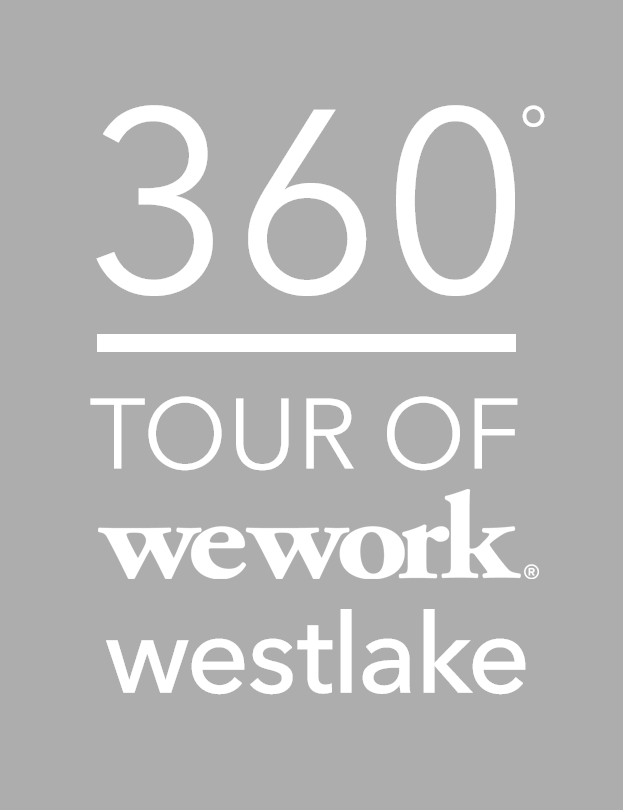
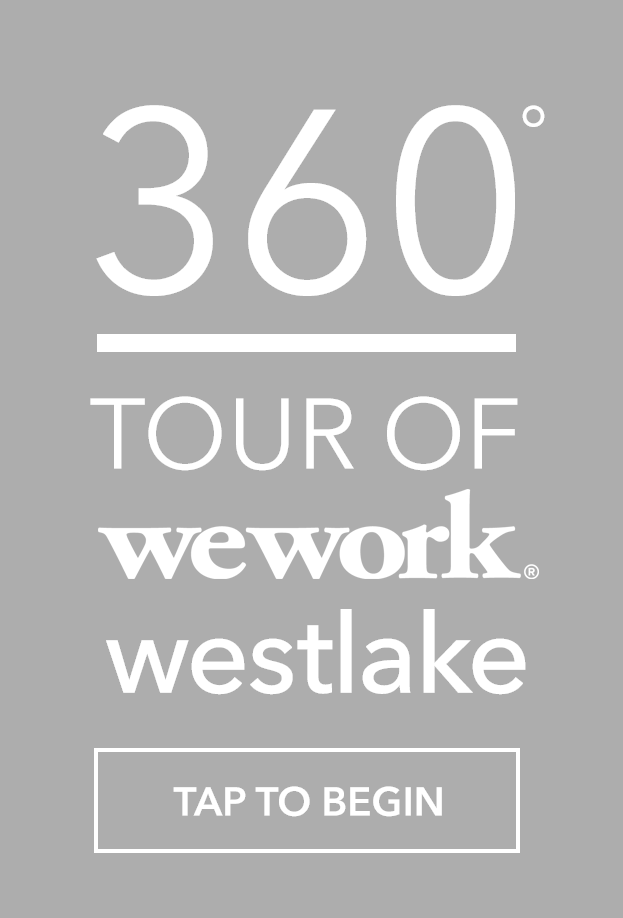
VIRO-456: Adjusted WeWorks Sample App from Feedback

Changed region(s): [[0.1525, 0.0926, 0.8539, 0.9568], [0.61, 0.0926, 0.8844, 0.216]]

diff --git a/js/360PhotoTour/MainScene.js b/js/360PhotoTour/MainScene.js
@@ -11,6 +11,7 @@
 
 import React, { Component } from 'react';
 var OfficeTourMainScene = require('./scenes/OfficeTourMcGrawScene');
+var LoadingSpinner = require('./custom_controls/LoadingSpinner');
 
 import {
   StyleSheet,
@@ -40,30 +41,13 @@ var OfficeTourSplashScene = React.createClass({
               <ViroLight type="omni" position={[0, 0, 0]} color="#ffffff"
                          direction={[0,0, -1.0]} attenuationStartDistance={40} attenuationEndDistance={50}
                          spotInnerAngle={0} spotOuterAngle={20} />
-              <ViroView visible={!this.state.showSceneItems} position={this.props.position} rotation={this.props.rotation} scale={this.props.scale}>
-                  <ViroSpinner position={[0, 0, -5]}
-                               spinnerType='dark'
-                               showLoadingText={true}/>
-                  <ViroText position={[-0.25, -1, -5]}
-                            fontFamily='HelveticaNeue-Medium'
-                            transformConstraint="billboard"
-                            fontSize={70}
-                            color="#000000"
-                            text="Loading ...."/>
-              </ViroView>
+              <LoadingSpinner visible={!this.state.showSceneItems} position={[0, 0, -5]}/>
 
-              <ViroView visible={this.state.showSceneItems} position={this.props.position} rotation={this.props.rotation} scale={this.props.scale}>
+              <ViroView visible={this.state.showSceneItems} position={this.props.position} rotation={this.props.rotation} >
                   <Viro360Photo source={require('./img/westlake_towers.jpg')} onLoadEnd={this._onLoadEnd}/>
                   <ViroAnimatedComponent animation="showTitle" runOnMount={false} loop={false} ref={MAINCARD_REF}>
-                        <ViroImage material="wework_title"  position={[0, 0, -5]} scale={[.1, .1, .1]} opacity={0.0} onTap={this._onTapTourSplashScreen}/>
+                        <ViroImage material="wework_title"  position={[0, 0, -5]} scale={[0.6, 1, .1]} opacity={0.0} onTap={this._onTapTourSplashScreen}/>
                   </ViroAnimatedComponent>
-                  <ViroText position={[-0.75, -1.60, -5]}
-                            fontFamily='HelveticaNeue-Medium'
-                            transformConstraint="billboard"
-                            spatialWidth={2}
-                            fontSize={60}
-                            color="#000000"
-                            text="Click To Start"/>
               </ViroView>
           </ViroScene>
       );
@@ -96,6 +80,6 @@ var styles = StyleSheet.create({
     },
 });
 ViroAnimations.registerAnimations({
-    showTitle: {properties:{scaleX:2, scaleY:2, scaleZ:2, opacity:1.0}, easing:"PowerDecel", duration:1000},
+    showTitle: {properties:{scaleX:2.714, scaleY:4, scaleZ:.1, opacity:1.0}, easing:"PowerDecel", duration:1000},
 });
 module.exports = OfficeTourSplashScene;

diff --git a/js/360PhotoTour/custom_controls/LoadingSpinner.js b/js/360PhotoTour/custom_controls/LoadingSpinner.js
@@ -22,7 +22,8 @@ import {
     ViroAnimatedComponent,
     ViroView,
     ViroSpinner,
-    ViroText
+    ViroText,
+    ViroSphere
 } from 'react-viro';
 import { polarToCartesian } from 'polarToCartesian';
 
@@ -30,46 +31,31 @@ var PropTypes = require('react/lib/ReactPropTypes');
 
 var LoadingSpinner = React.createClass({
     propTypes: {
-        spinnerOffsetX:PropTypes.number,
-        spinnerOffsetY:PropTypes.number,
-        spinnerOffsetZ:PropTypes.number,
         showLoadingText:PropTypes.BOOL,
     },
-    getInitialState() {
-        return {
-        };
-    },
     render: function() {
-        var spinnerPosition =polarToCartesian([0, 0, 0]);
-            spinnerPosition[2]=0;
+        var spinnerPosition = polarToCartesian([0, 0, 0]);
+        spinnerPosition[2]=0;
+        var textPosition = polarToCartesian([1, -25, -40]);
+        textPosition[2]=0.35;
         return (
-            <ViroView {...this.props} >
-                <ViroView position={polarToCartesian([0, 0, 0])}
+                <ViroView {...this.props} >
+                    <ViroView position={polarToCartesian([0, 0, 0])}
                           transformConstraint="billboard">
-                    <ViroSpinner position={spinnerPosition}
-                                 spinnerType='dark' />
-                    {this._getViews()}
+                        <ViroSpinner position={spinnerPosition}
+                                     scale={[.7,.7,.1]}
+                                     spinnerType='dark' />
+                        <ViroText
+                            position={textPosition}
+                            fontFamily='HelveticaNeue-Medium'
+                            fontSize={70}
+                            color={"#000000"}
+                            text="Loading ...."
+                        />
+                    </ViroView>
                 </ViroView>
-            </ViroView>
-
-            );
+        );
     },
-     _getViews() {
-            var views = [];
-            var position = polarToCartesian([1, -30, -50]);
-            position[2]=0.5;
-            views.push((
-                <ViroText
-                    position={position}
-                    fontFamily='HelveticaNeue-Medium'
-                fontSize={70}
-                color={"#000000"}
-                text="Loading ...."
-                />
-                ));
-                return views;
-     }
-
 });
 
 var styles = StyleSheet.create({

diff --git a/js/360PhotoTour/custom_controls/InfoElement.js b/js/360PhotoTour/custom_controls/InfoElement.js
@@ -134,9 +134,9 @@ Materials.createMaterials({
 });
 
 ViroAnimations.registerAnimations({
-    hide: {properties:{scaleX:.1, scaleY:.1, scaleZ:.1, opacity:0.0}, easing:"Bounce", duration:100},
-    showInfo: {properties:{scaleX:1, scaleY:1, scaleZ:1, opacity:1.0}, easing:"PowerDecel", duration:150},
-    showIcon: {properties:{scaleX:.5, scaleY:.5, scaleZ:.5, opacity:1.0}, easing:"PowerDecel", duration:150},
+    hide: {properties:{scaleX:.1, scaleY:.1, scaleZ:.1, opacity:0.0}, easing:"Bounce", duration:160},
+    showInfo: {properties:{scaleX:1, scaleY:1, scaleZ:1, opacity:1.0}, easing:"PowerDecel", duration:200},
+    showIcon: {properties:{scaleX:.5, scaleY:.5, scaleZ:.5, opacity:1.0}, easing:"PowerDecel", duration:200},
 });
 
 var styles = StyleSheet.create({
